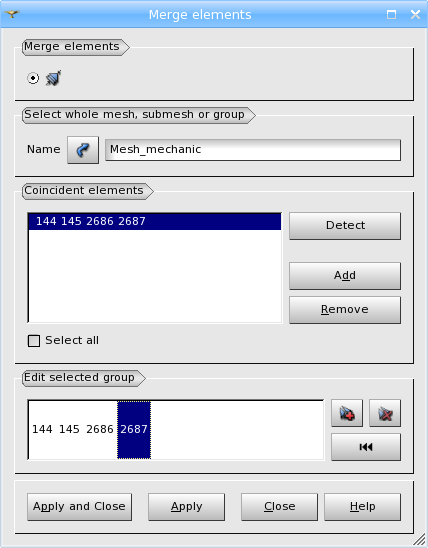
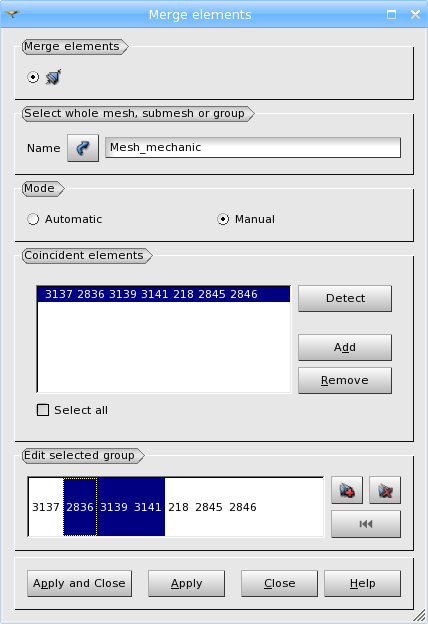
0020631: EDF 1195 SMESH : Merge Node : Optional display of the nodes of the mesh

diff --git a/src/SMESHGUI/SMESH_msg_en.ts b/src/SMESHGUI/SMESH_msg_en.ts
@@ -425,6 +425,7 @@
             <source>MEN_MERGE_ELEMENTS</source>
             <translation>Merge Elements</translation>
         </message>
+
         <message>
             <source>MEN_MESH</source>
             <translation>Mesh</translation>
@@ -811,7 +812,7 @@ Please enter correct values and try again</translation>
         <message>
             <source>SMESH_ADD_HYP_WRN</source>
             <translation>"%1" assigned but:
-</translation>
+        </translation>
         </message>
         <message>
             <source>SMESH_ADD_POLYGON</source>
@@ -1474,9 +1475,37 @@ add the exported data to its contents?</translation>
             <source>SMESH_MEN_SubMeshesOnVertex</source>
             <translation>SubMeshes On Vertex</translation>
         </message>
+	<message>
+            <source>SMESH_AUTOMATIC</source>
+            <translation>Automatic</translation>
+        </message>
+	<message>
+            <source>SMESH_MANUAL</source>
+            <translation>Manual</translation>
+        </message>
         <message>
             <source>SMESH_MERGE_ELEMENTS</source>
             <translation>Merge elements</translation>
+        </message>
+	<message>
+            <source>SMESH_MODE</source>
+            <translation>Mode</translation>
+        </message>
+	<message>
+            <source>SMESH_MERGED_ELEMENTS</source>
+            <translation>%1 elements successfully merged.</translation>
+        </message>
+	<message>
+            <source>SMESH_MERGED_NODES</source>
+            <translation>%1 nodes successfully merged.</translation>
+        </message>
+	<message>
+            <source>SMESH_NO_ELEMENTS_DETECTED</source>
+            <translation>There are no elements to merge.</translation>
+        </message>
+	<message>
+            <source>SMESH_NO_NODES_DETECTED</source>
+            <translation>There are no nodes to merge.</translation>
         </message>
         <message>
             <source>SMESH_MERGE_NODES</source>
@@ -4810,6 +4839,7 @@ It is impossible to read point coordinates from file</translation>
             <source>MERGE_EQUAL_ELEMENTS</source>
             <translation>Merge equal elements</translation>
         </message>
+
         <message>
             <source>NODE1_TO_MERGE</source>
             <translation>Node 1 To Merge</translation>

diff --git a/src/SMESHGUI/SMESHGUI_EditMeshDlg.h b/src/SMESHGUI/SMESHGUI_EditMeshDlg.h
@@ -49,6 +49,7 @@ class QPushButton;
 class QRadioButton;
 class QCheckBox;
 class QListWidget;
+class QButtonGroup;
 class SMESHGUI;
 class SMESHGUI_SpinBox;
 class SMESH_Actor;
@@ -102,6 +103,7 @@ private:
 
   int                       myAction;
   bool                      myIsBusy;
+  int                       myTypeId;
 
   // Widgets
   QGroupBox*                GroupConstructors;
@@ -119,6 +121,7 @@ private:
   QLineEdit*                LineEditMesh;
 
   QGroupBox*                GroupCoincident;
+  QWidget*                  GroupCoincidentWidget;
   QLabel*                   TextLabelTolerance;
   SMESHGUI_SpinBox*         SpinBoxTolerance;
   QPushButton*              DetectButton;
@@ -132,6 +135,9 @@ private:
   QPushButton*              AddElemButton;
   QPushButton*              RemoveElemButton;
   QPushButton*              SetFirstButton;
+
+  QGroupBox*                TypeBox;
+  QButtonGroup*             GroupType;
     
   QString                   myHelpFileName;
 
@@ -154,6 +160,7 @@ private:
   void                      SelectionIntoArgument();
   void                      DeactivateActiveDialog();
   void                      ActivateThisDialog();
+  void                      onTypeChanged(int);
 };
 
 #endif // SMESHGUI_EDITMESHDLG_H
